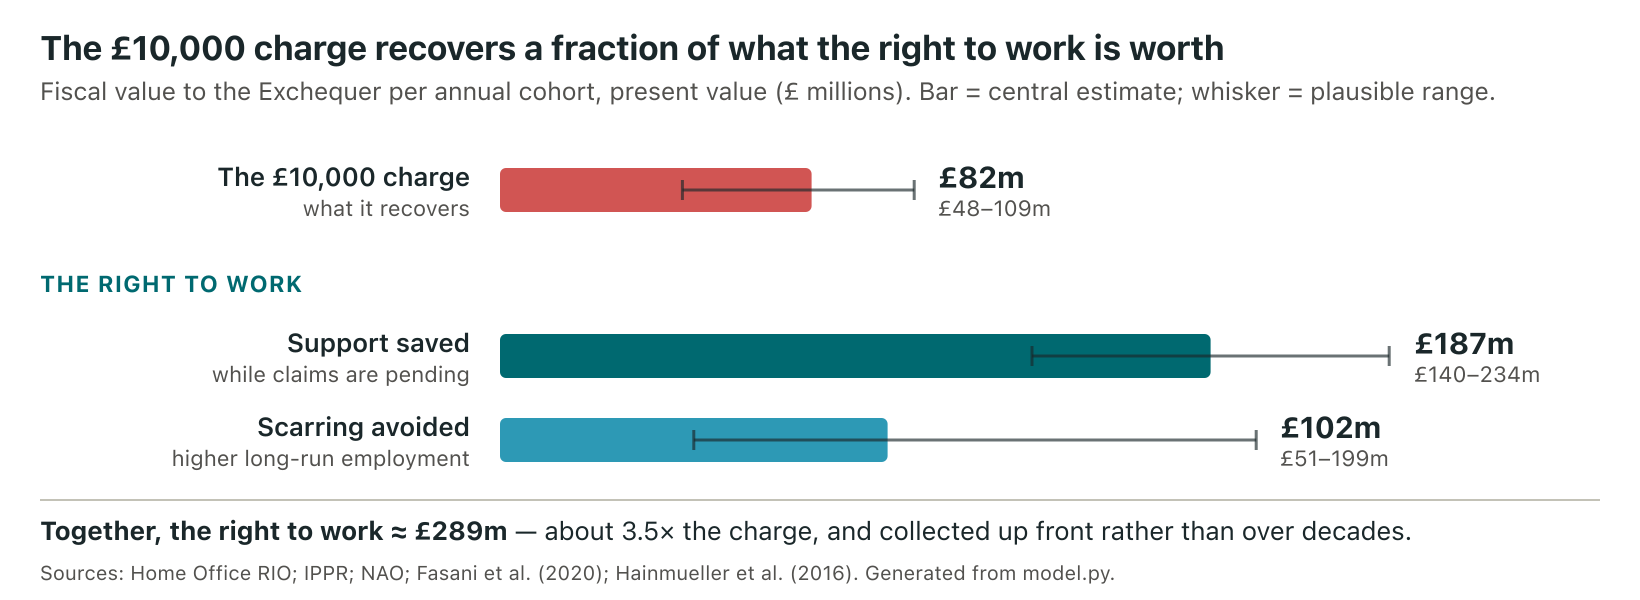
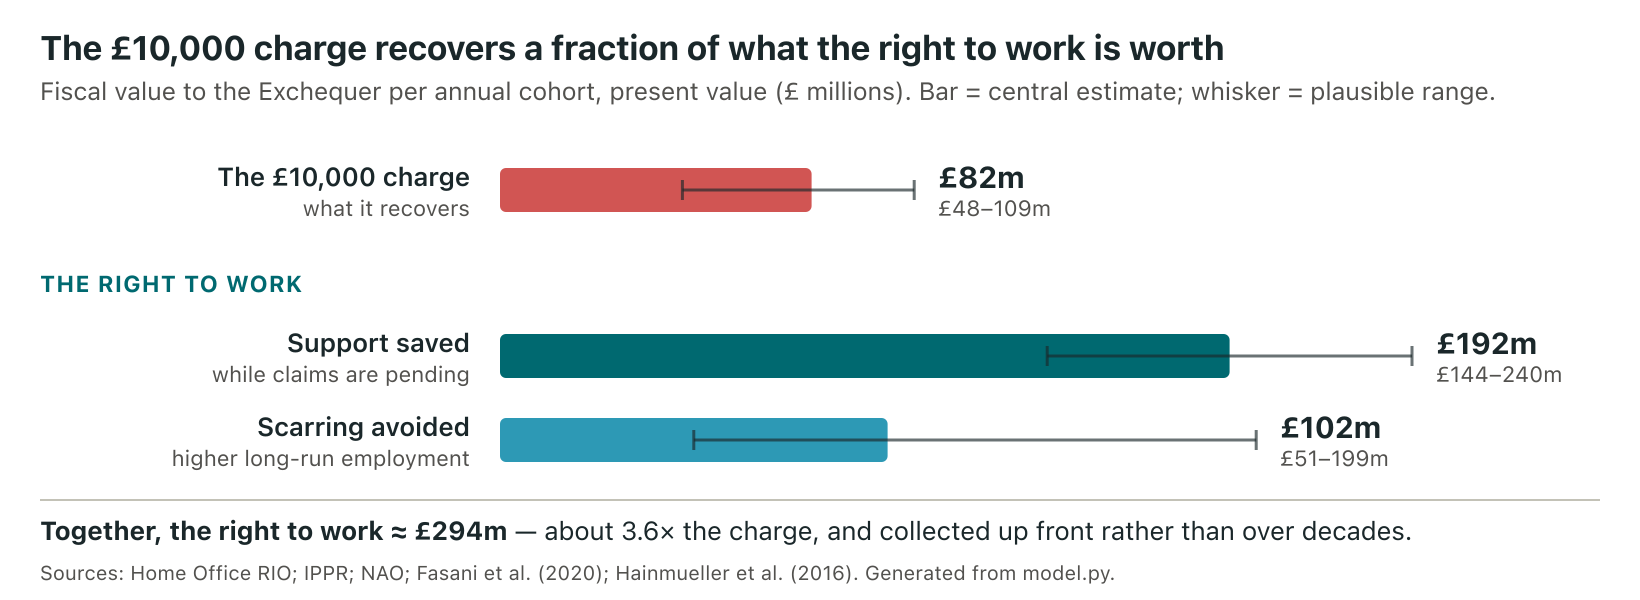
Channel B: fix £11k rounding, publish the accom/tax split, make parts sum
- SUPPORT_SAVED_PER_TRANSITION is now derived (£10,000 accommodation +
  £1,300 tax = £11,300), not a rounded £11,000 that didn't equal its parts.
- Publish the split: channel_B_accommodation_m (£170m) / _tax_m (£22m), so
  the blog's decomposition is model-generated rather than asserted.
- Central = the range midpoint (20%), documented as deliberately below the
  24% RIO year-1 refugee rate (parity with recognised refugees wouldn't be
  conservative). Range 15-25% kept for sensitivity.
- Totals now sum from the ROUNDED parts: £170m + £22m = £192m; £192m +
  £102m = £294m (3.6x). Readers add what they see, so the published
  components must add to the published total.
- Figure + README regenerated to match.

diff --git a/model.py b/model.py
@@ -45,8 +45,15 @@ SCAR_PERSIST_YEARS = 10    # scarring persists up to a decade
 NET_FISCAL_PER_EMP_YR = 8_000   # tax gained + benefits saved per extra person-year employed (author est.)
 
 # --- Channel B (support saved by working while the claim is pending) ---
-SUPPORT_SAVED_PER_TRANSITION = 11_000     # 6-month bring-forward: ~£10k support + ~£1.3k tax
-WORK_SOONER_SHARE = (0.15, 0.25)          # share of cohort working sooner under a 6-month ban
+# Per person moved off support 6 months sooner: £10,000 accommodation (0.5yr x ~£20k/yr,
+# i.e. the £41k hotel-inflated average halved) + £1,300 tax/NI on 6 months at ~£25k.
+SUPPORT_SAVED_ACCOMMODATION, SUPPORT_SAVED_TAX = 10_000, 1_300
+SUPPORT_SAVED_PER_TRANSITION = SUPPORT_SAVED_ACCOMMODATION + SUPPORT_SAVED_TAX   # £11,300
+WORK_SOONER_SHARE = (0.15, 0.25)          # sensitivity range: share working sooner under a 6-month ban
+WORK_SOONER_CENTRAL = sum(WORK_SOONER_SHARE) / 2   # 20% — midpoint of the range.
+# Deliberately BELOW the 24% RIO year-1 refugee employment rate (EMP_RATE[1]): asylum seekers
+# face more barriers than recognised refugees (no settled status, dispersal, shortage-list
+# limits), so assuming parity with them would not be conservative. B scales linearly in this.
 
 # --- hotels (NAO, Investigation into asylum accommodation, 2024) ---
 HOTEL_BILL_PER_YEAR = 3_000_000_000       # ~£3bn/yr spent on asylum hotels
@@ -122,10 +129,18 @@ def quartile_repaid(plateau, horizon=20):
     return round(sum(repay_stream([plateau * ramp(t) for t in range(1, horizon + 1)])))
 
 # ===================== 5. CHANNELS B & C =====================
-def channel_B_m():
+def channel_B_m():                        # sensitivity range across WORK_SOONER_SHARE
     lo, hi = WORK_SOONER_SHARE
     return (COHORT_ADULTS * lo * SUPPORT_SAVED_PER_TRANSITION / 1e6,
             COHORT_ADULTS * hi * SUPPORT_SAVED_PER_TRANSITION / 1e6)
+
+def channel_B_central_m(share=WORK_SOONER_CENTRAL):
+    return COHORT_ADULTS * share * SUPPORT_SAVED_PER_TRANSITION / 1e6
+
+def channel_B_split_m(share=WORK_SOONER_CENTRAL):
+    """Channel B's two components: accommodation saved, and tax paid."""
+    return (COHORT_ADULTS * share * SUPPORT_SAVED_ACCOMMODATION / 1e6,
+            COHORT_ADULTS * share * SUPPORT_SAVED_TAX / 1e6)
 
 def channel_C_m(emp_gain_pp=SCAR_GAIN_PP, persistence=SCAR_PERSIST_YEARS,
                 fiscal=NET_FISCAL_PER_EMP_YR, pv=False):
@@ -150,7 +165,11 @@ def all_numbers():
     C_pv = channel_C_m(pv=True)                                       # C over 10 yrs, discounted
     C_pv_lo = channel_C_m(emp_gain_pp=2.0, fiscal=6_000, pv=True)     # low: 2pp x £6k
     C_pv_hi = channel_C_m(emp_gain_pp=4.7, fiscal=10_000, pv=True)    # high: 4.7pp x £10k
-    rtw_total_pv = (B[0] + B[1]) / 2 + C_pv                           # support saved (mid) + scarring PV
+    B_central = channel_B_central_m()                                 # at the RIO-anchored 24%
+    B_accom, B_tax = channel_B_split_m()
+    # Sum the ROUNDED parts, so the published components always add to the published total
+    # (readers add up what they see; £231m + £102m must not print as £332m).
+    rtw_total_pv = round(B_central) + round(C_pv)
     N = {
         # --- Channel A: the charge ---
         "charge_recovered_pv_pct": round(A["pct_pv"]),
@@ -174,7 +193,11 @@ def all_numbers():
         "q_bottom_15k": quartile_repaid(15_000), "q_median_23k": quartile_repaid(23_000),
         "q_upper_32k": quartile_repaid(32_000), "q_top_42k": quartile_repaid(42_000),
         # --- Channels B & C ---
-        "channel_B_support_saved_m": [round(B[0]), round(B[1])],
+        "channel_B_support_saved_m": [round(B[0]), round(B[1])],      # sensitivity range (15–25%)
+        "work_sooner_central_pct": round(WORK_SOONER_CENTRAL * 100),  # 24%, = RIO yr-1 employment
+        "channel_B_central_m": round(B_central),
+        "channel_B_accommodation_m": round(B_accom),
+        "channel_B_tax_m": round(B_tax),
         "channel_C_scarring_avoided_m": round(C),                     # nominal, 10 yrs
         "channel_C_scarring_avoided_pv_m": round(C_pv),               # present value
         "channel_C_pv_range_m": [round(C_pv_lo), round(C_pv_hi)],

diff --git a/README.md b/README.md
@@ -6,7 +6,7 @@ The modelling behind the CGD blog **"The UK's £10,000 Asylum Seeker Payment Mus
 
 **Contents** — [Reproduce every number](#reproduce-every-number) · [The three channels](#the-three-channels) · [Parameters](#parameters) · [Channel A](#channel-a--how-much-does-the-charge-recover) · [Channel B](#channel-b--support-saved) · [Channel C](#channel-c--scarring-avoided) · [Sensitivity](#sensitivity) · [Methodology & verification](#methodology--verification) · [Files & sources](#files--sources)
 
-![The £10,000 charge recovers a fraction of what the right to work is worth. Present value per cohort: the charge recovers about £82m (range £48–109m); the right to work is worth far more — support saved while claims are pending about £187m (£140–234m) and scarring avoided about £102m (£51–199m), together roughly £289m, about 3.5× the charge.](figure-charge-vs-righttowork.png)
+![The £10,000 charge recovers a fraction of what the right to work is worth. Present value per cohort: the charge recovers about £82m (range £48–109m); the right to work is worth far more — support saved while claims are pending about £192m (£144–240m) and scarring avoided about £102m (£51–199m), together roughly £294m, about 3.6× the charge.](figure-charge-vs-righttowork.png)
 
 ---
 
@@ -33,12 +33,13 @@ It prints every number and writes [`numbers.json`](numbers.json). `make_barchart
 | Median full-time worker (£23k) repays nothing | `q_median_23k` | £0 |
 | An 80th-pct earner clears the £10k only by year 28 | `indiv_charge_clears_year_statusquo` | 28 |
 | …worth just ~£5.4k of £10k in present value | `indiv_repaid_pv_statusquo` | £5,358 |
-| ~£11,000 per person who starts work sooner | `SUPPORT_SAVED_PER_TRANSITION` *(model.py)* | £11,000 |
-| Channel B (support saved) | `channel_B_support_saved_m` | £140–234m |
+| ~£11,000 per person who starts work sooner | `SUPPORT_SAVED_PER_TRANSITION` *(model.py)* | £11,300 |
+| Channel B (support saved), central | `channel_B_central_m` (range `channel_B_support_saved_m`) | £192m (£144–240m) |
+| …of which accommodation / tax | `channel_B_accommodation_m` / `…_tax_m` | £170m / £22m |
 | Cutting the ban 12→6 months lifts employment ~3pp | `scarring_gain_from_cut_pp` | 3.0 |
 | Channel C (scarring avoided) | `channel_C_scarring_avoided_m` (PV `…_pv_m`) | £122m (£102m PV) |
-| Right to work (support saved + scarring avoided), PV | `righttowork_total_pv_m` | £289m |
-| …worth several times the charge | `righttowork_vs_charge_multiple` | ~3.5× |
+| Right to work (support saved + scarring avoided), PV | `righttowork_total_pv_m` | £294m |
+| …worth several times the charge | `righttowork_vs_charge_multiple` | ~3.6× |
 | Hotels ~£145/night, ~6× dispersal | `hotel_night` / `hotel_vs_dispersal_multiple` | £144.98 / 6.2× |
 
 `model.py` computes a few further outputs the blog doesn't currently use — nominal recovery (28%), the RAB charge (84%), full-time-work shares, the earnings quartiles, and hotel-saving scenarios. They're in [`numbers.json`](numbers.json) if wanted.
@@ -130,15 +131,17 @@ Per person moved off support and into work **six months sooner**:
 |---|---|---|---|
 | Avoided support (0.5 yr × annual cost) | £5,000 (dispersal ~£10k/yr) | £10,000 (~£20k/yr) | £20,500 (hotel ~£41k/yr) |
 | Tax + NI on 6 months' work (~£25k salary) | £1,000 | £1,300 | £1,500 |
-| **Total per person, one transition** | **~£6,000** | **~£11,000** | **~£22,000** |
+| **Total per person, one transition** | **~£6,000** | **£11,300** | **~£22,000** |
 
-**Aggregate:** `85,000 adults × 15–25% working sooner × £11,000` = **£140–234m** (12,750–21,250 people). Note the base is the **full 85,000**, not the 51,000 granted: the saving accrues while the claim is *pending*, whether or not it later succeeds — so Channel B alone doesn't scale with the grant rate.
+**Aggregate:** `85,000 adults × 15–25% working sooner × £11,300` = **£144–240m** (12,750–21,250 people). The headline uses the **midpoint, 20%** → **£192m** (= £170m accommodation + £22m tax). That 20% is deliberately *below* the 24% RIO year-1 employment rate for *recognised* refugees: asylum seekers face more barriers, so assuming parity with them would not be conservative.
+
+Note the base is the **full 85,000**, not the 51,000 granted: the saving accrues while the claim is *pending*, whether or not it later succeeds — so Channel B alone doesn't scale with the grant rate.
 
 **Confidence: medium-to-low**, for two reasons worth being explicit about:
 - The **15–25% employment response is stipulated, not derived** — the model has no basis for it, and Channel B scales linearly in it. For scale, RIO puts *recognised refugees* at 24% employment in year 1 *post-status*; assuming a similar share of *asylum seekers* work during their claim is not conservative.
 - The **£10,000 uses *average* support cost.** The marginal saving is lower — hotels are block-booked, so one person leaving banks nothing until a facility closes.
 
-Both push the same way: Channel B is more likely over- than under-stated. Note also that ~£10,000 of the £11,000 is *accommodation*, not tax — so any separate "hotel savings" figure would double-count this channel.
+Both push the same way: Channel B is more likely over- than under-stated. Note also that **£10,000 of the £11,300 is *accommodation***, not tax (£170m of the £192m) — so any separate "hotel savings" figure would double-count this channel.
 
 ---
 
@@ -166,7 +169,7 @@ Scarring applies only to those who *get* status, so the base is the **~51,000 gr
 | **Annual fiscal gain** | **~£6m** | **~£12m** | **~£24m** |
 | **Over ~10 years (undiscounted)** | **~£62m** | **~£122m** | **~£240m** |
 
-Discounted over the 10 years at 3.5%, the central £122m is **~£102m PV**. With Channel B's midpoint (£187m), the right to work totals **~£289m PV per cohort, ~3.5× the charge** (envelope ~£210–420m across the ranges, with a haircut for overlap).
+Discounted over the 10 years at 3.5%, the central £122m is **~£102m PV**. With Channel B's midpoint (£192m), the right to work totals **~£294m PV per cohort, ~3.6× the charge** (envelope ~£210–420m across the ranges, with a haircut for overlap).
 
 *Sanity check:* Fasani et al. put the Europe-wide output loss from bans on the 2015 cohort at **€37.6bn**; the UK per-cohort figures here are a small fiscal slice of that GDP-basis total. *Note also:* Fasani identifies the **work ban**; Hainmueller total **wait time** (the backlog, of which the ban is the first slice) — they compound.
 